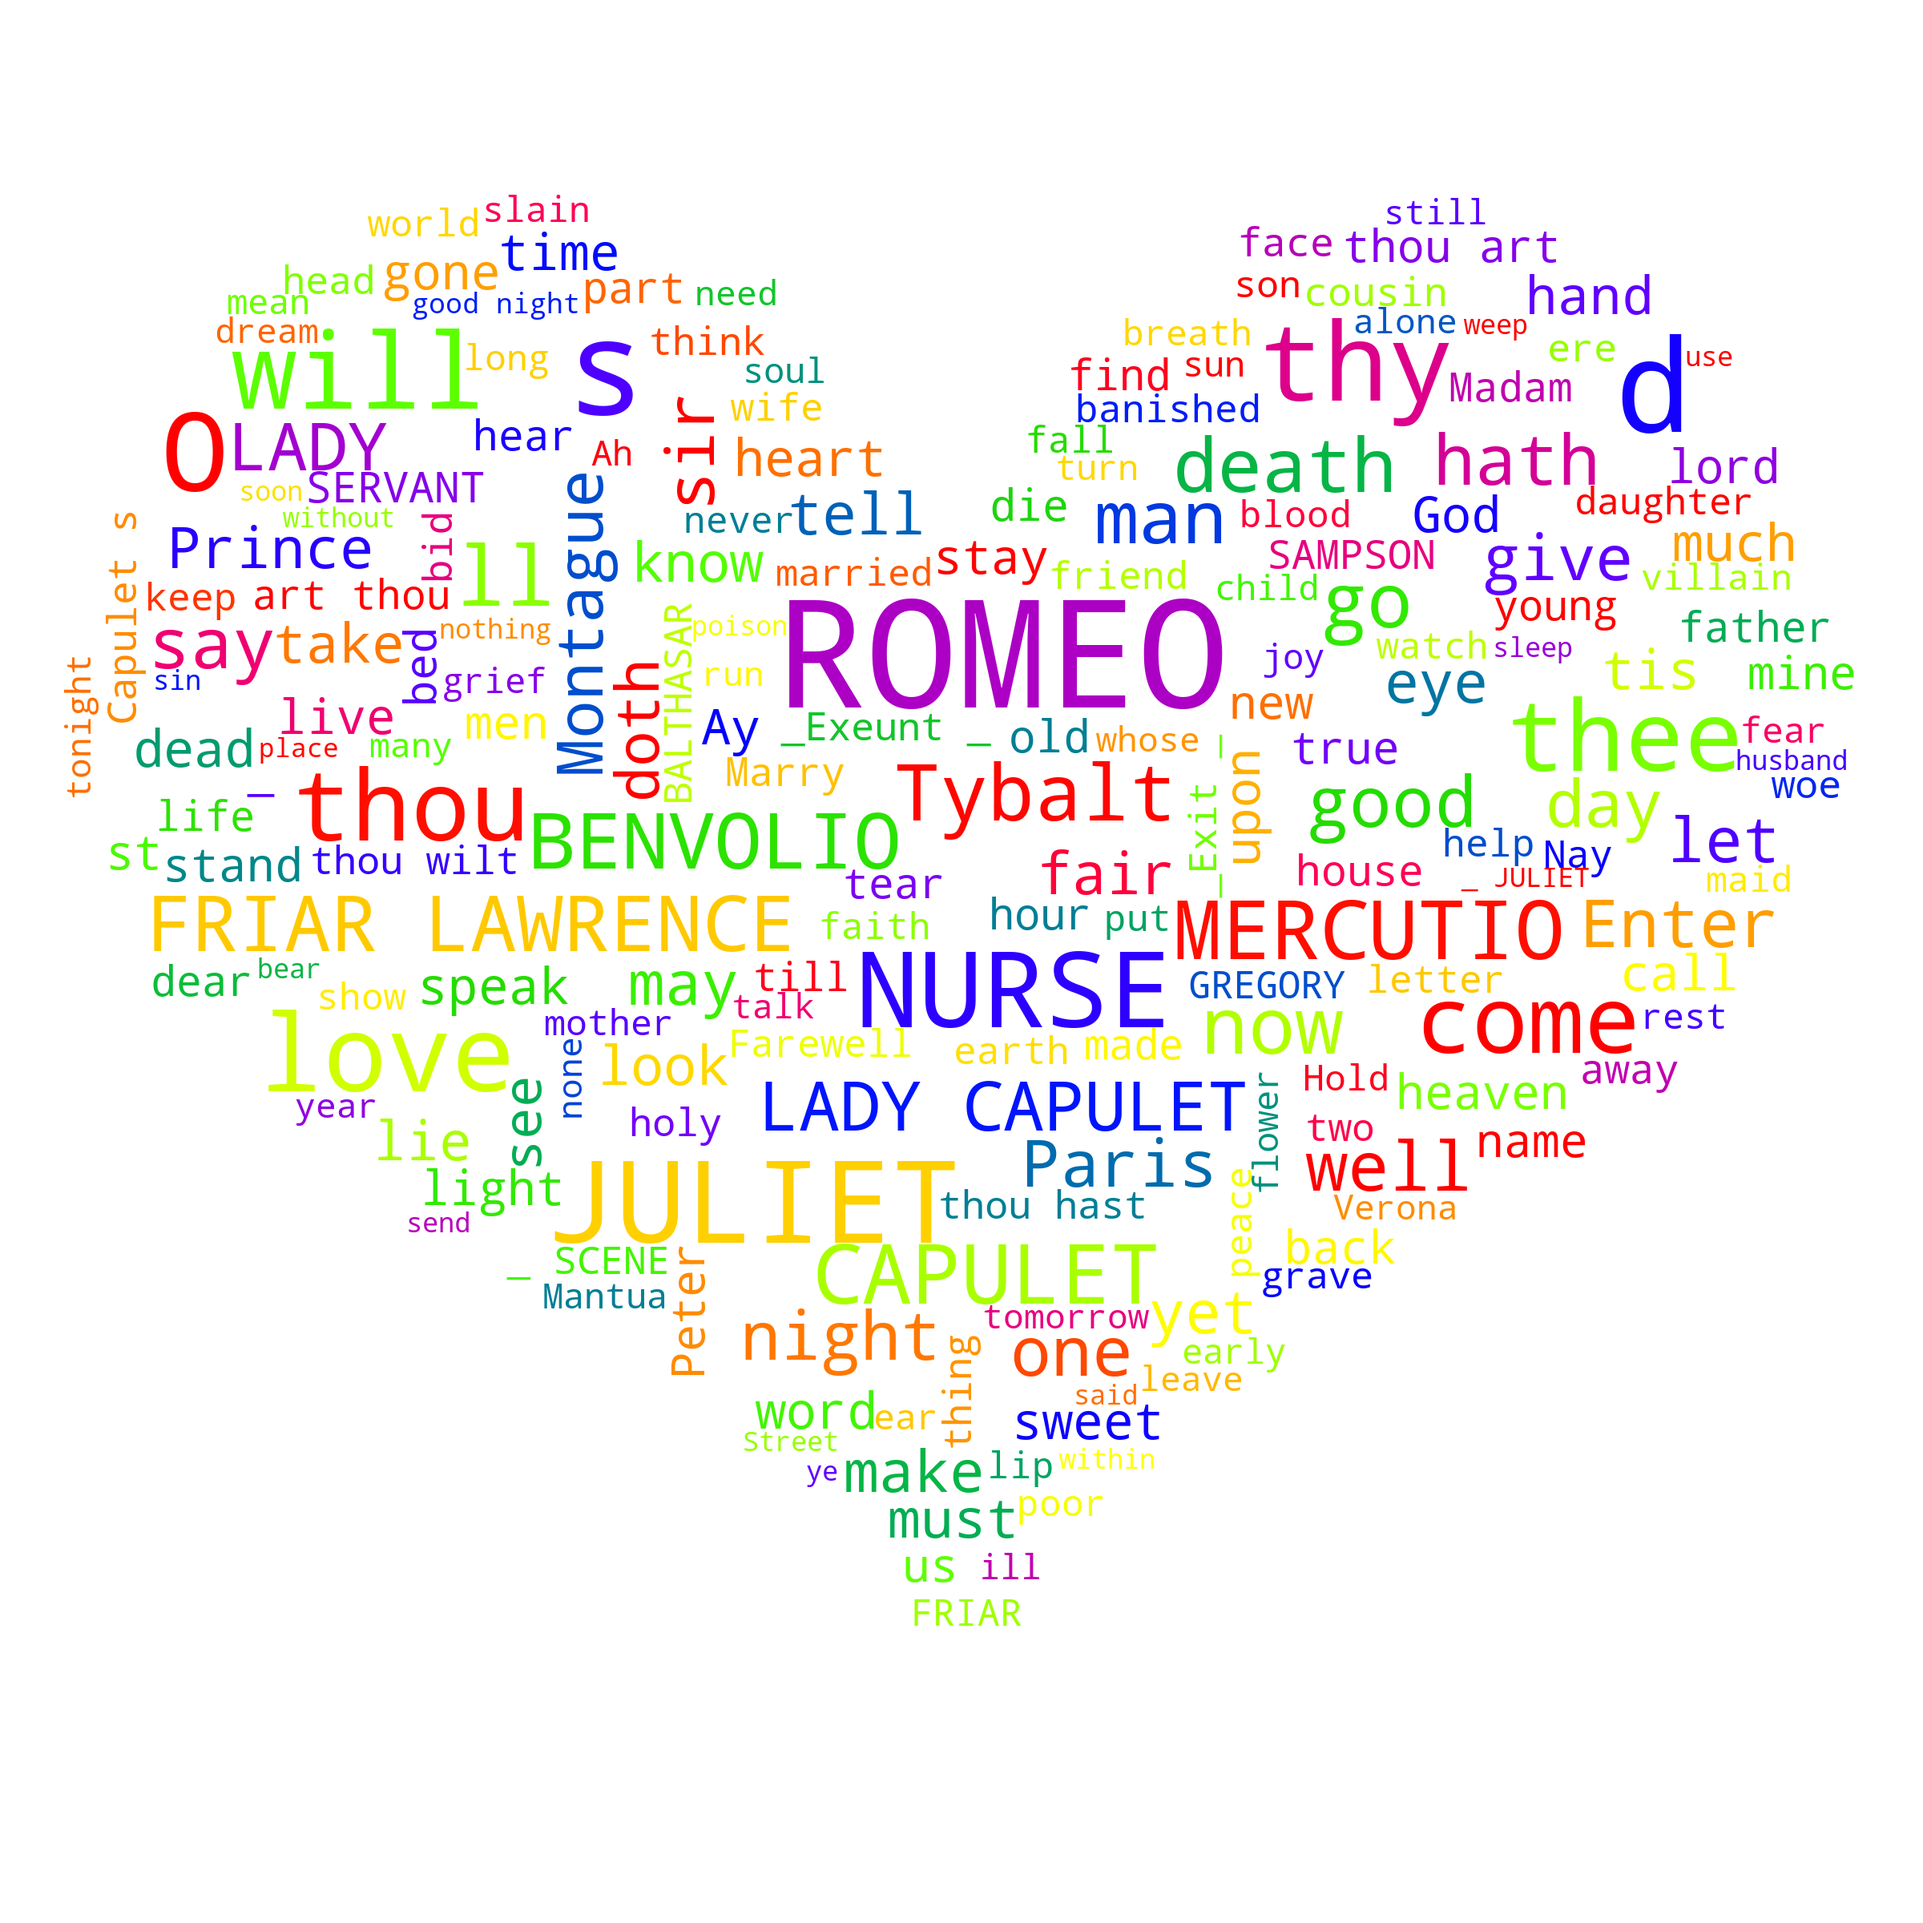
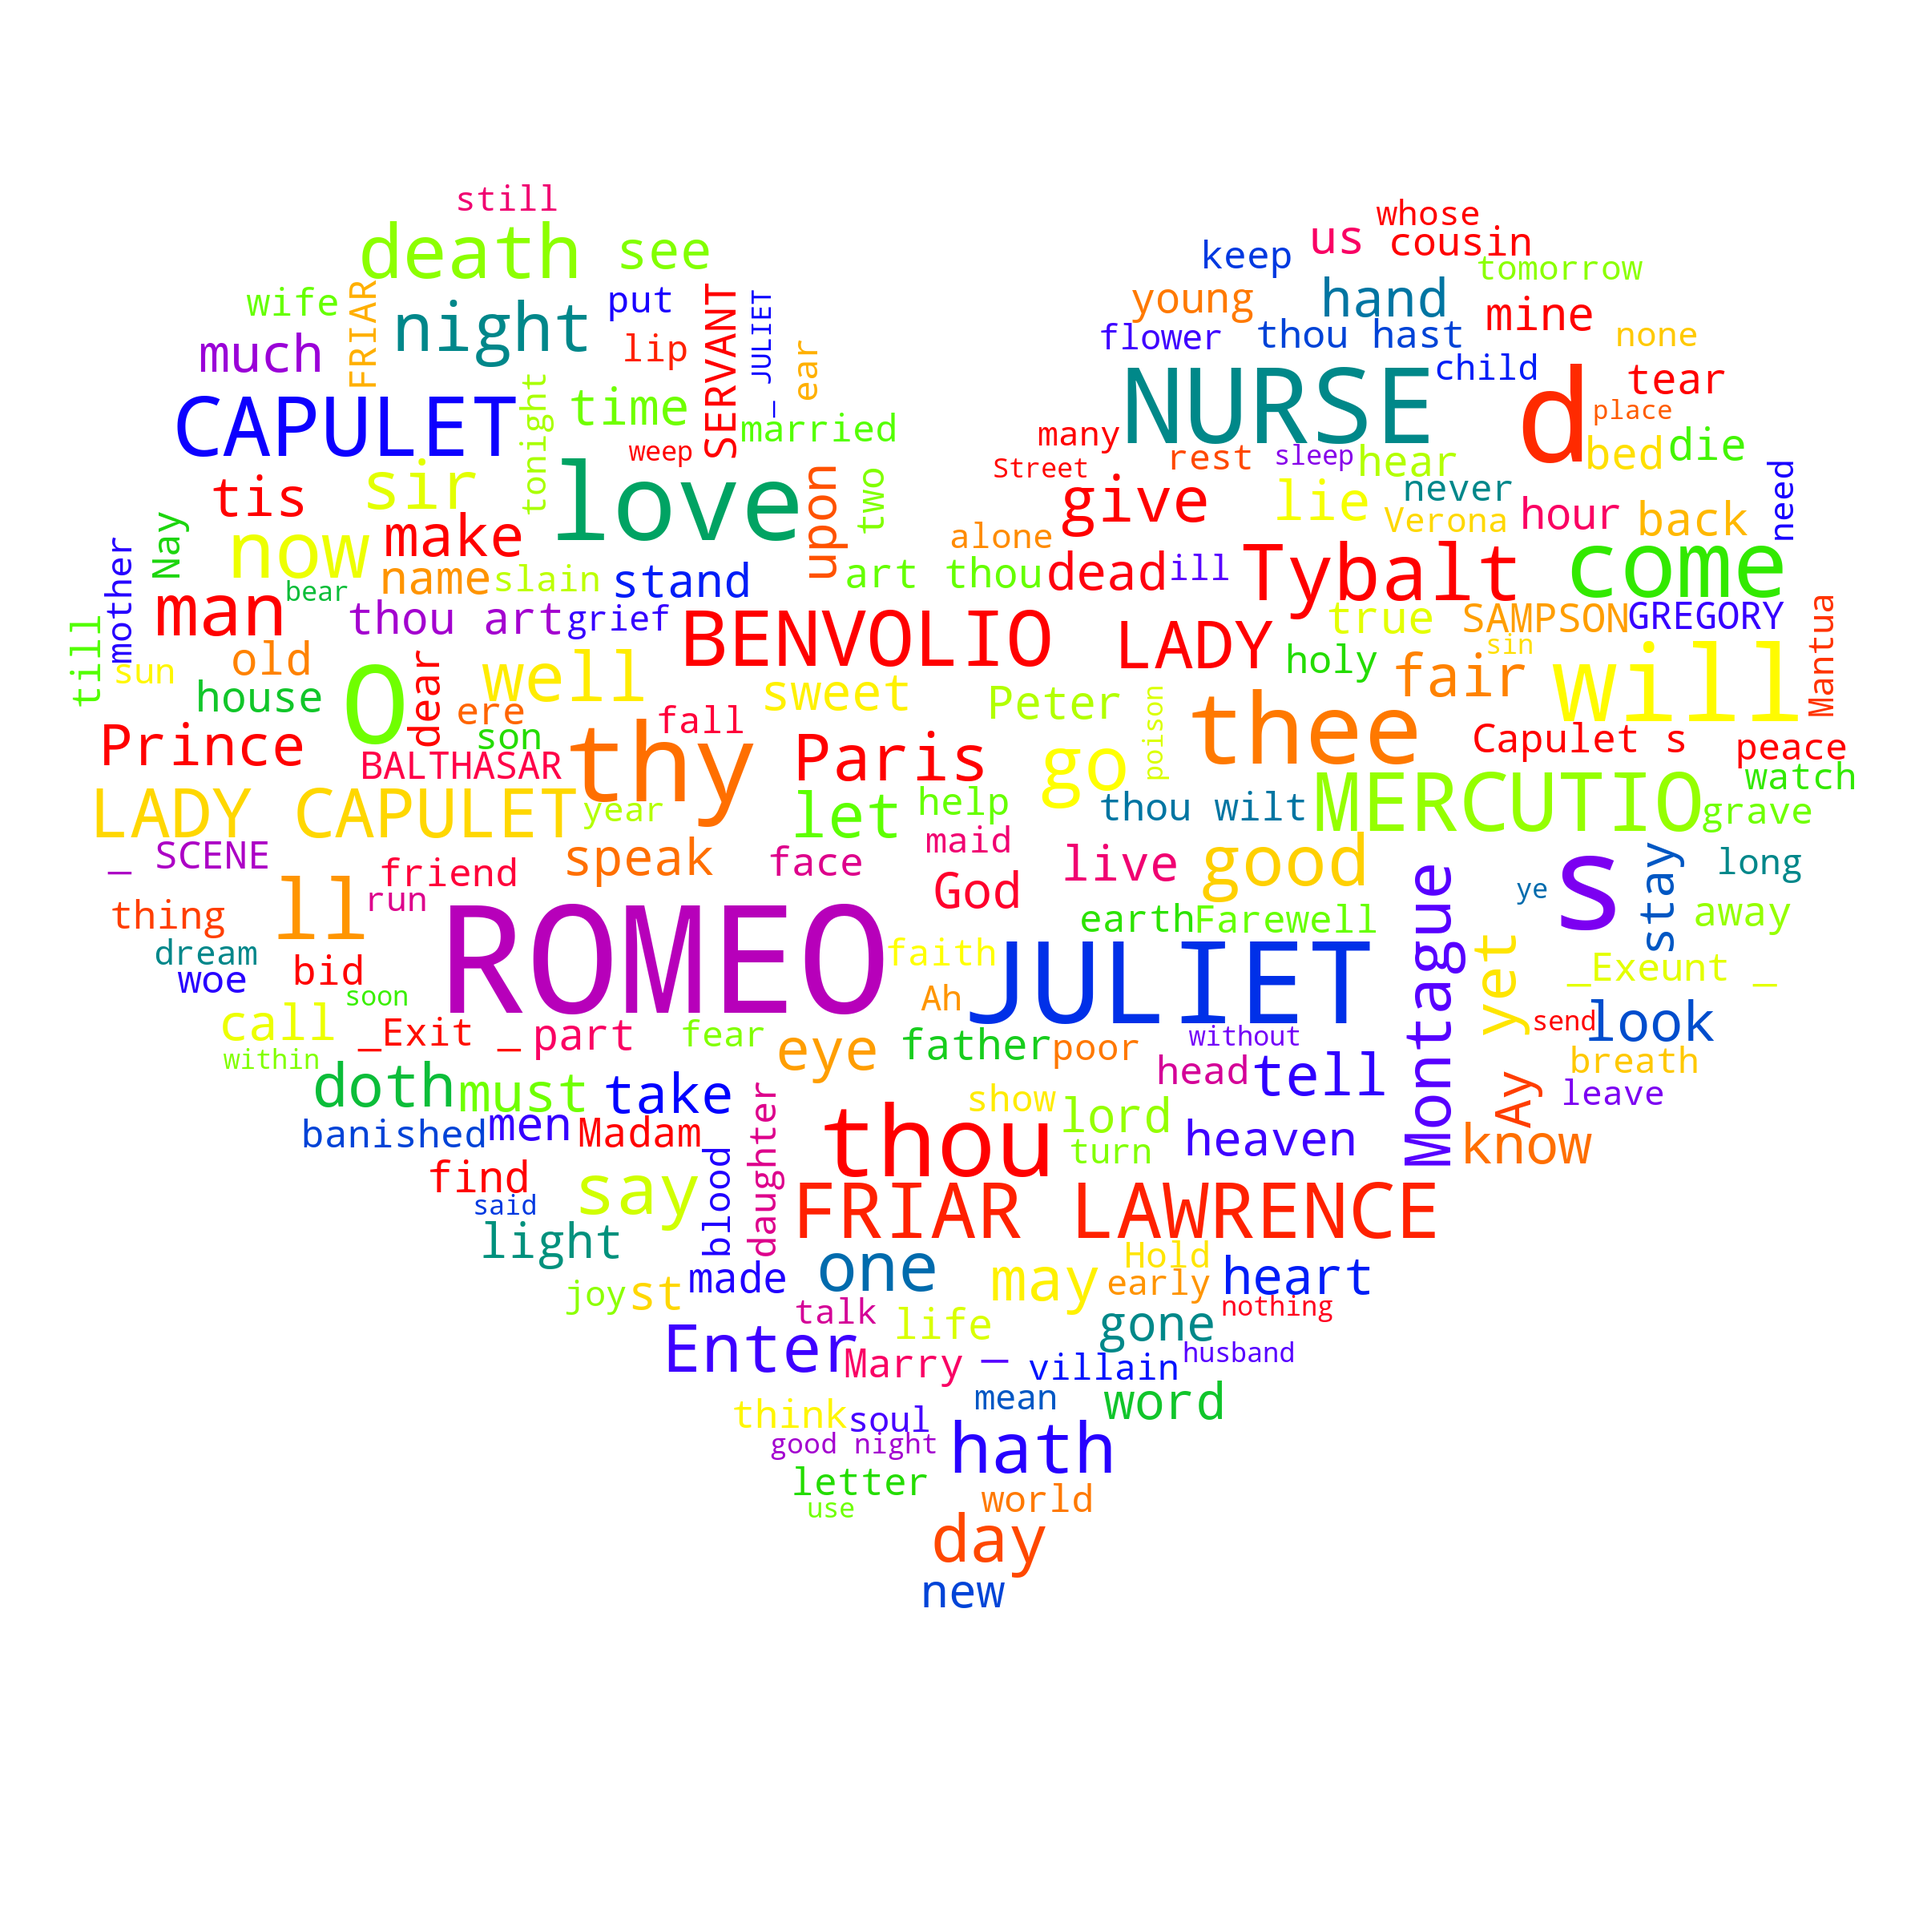
work on the assignment

Changed region(s): [[0.0312, 0.0938, 0.9688, 0.8438]]

diff --git a/nlp_Exercise.py b/nlp_Exercise.py
@@ -1,0 +1,39 @@
+import pathlib
+from textblob import TextBlob
+import nltk
+
+from pathlib import Path
+import pandas as pd 
+from operator import itemgetter
+from nltk.corpus import stopwords
+
+from os import path
+from pathlib import Path
+import imageio
+from wordcloud import WordCloud
+
+stops = stopwords.words('english')
+additional_words = ['thy', 'ye', 'verily', 'thee', 'hath', 'say', 'thou', 'art', 'shall',"'"]
+stops += additional_words
+
+#print(stops)
+
+blob = TextBlob(Path("book of John text.txt").read_text())
+nouns = blob.noun_phrases
+#print(nouns)
+
+
+items = blob.word_counts.items()
+clean = [word for word in items if word[0] not in stops]
+clean_nouns = [noun for noun in clean if noun[0] in nouns]
+sorted_list = sorted(clean_nouns, key= itemgetter(1), reverse= True) 
+#clean_nouns_list = [i[0] for i in sorted_list]
+top15 = str(sorted_list[:15])
+
+print(top15)
+
+mask_image = imageio.imread('mask_oval.png')
+wordcloud = WordCloud(colormap= 'prism', mask = mask_image, background_color = 'white')
+wordcloud = wordcloud.generate((top15).replace("'",''))
+wordcloud = wordcloud.to_file('BookofJohnOval.png')
+print("done out here")
